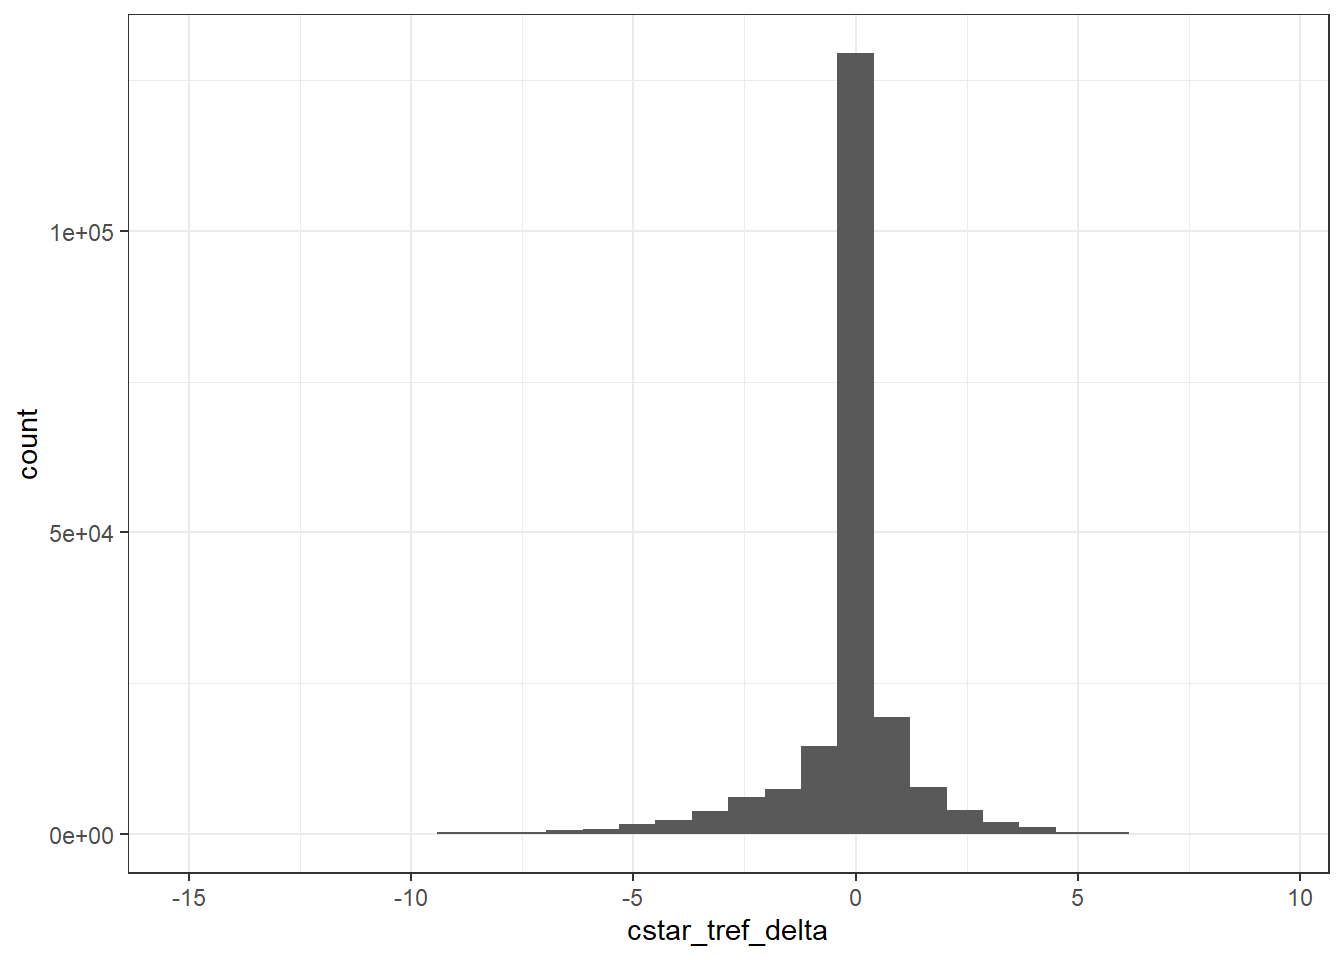
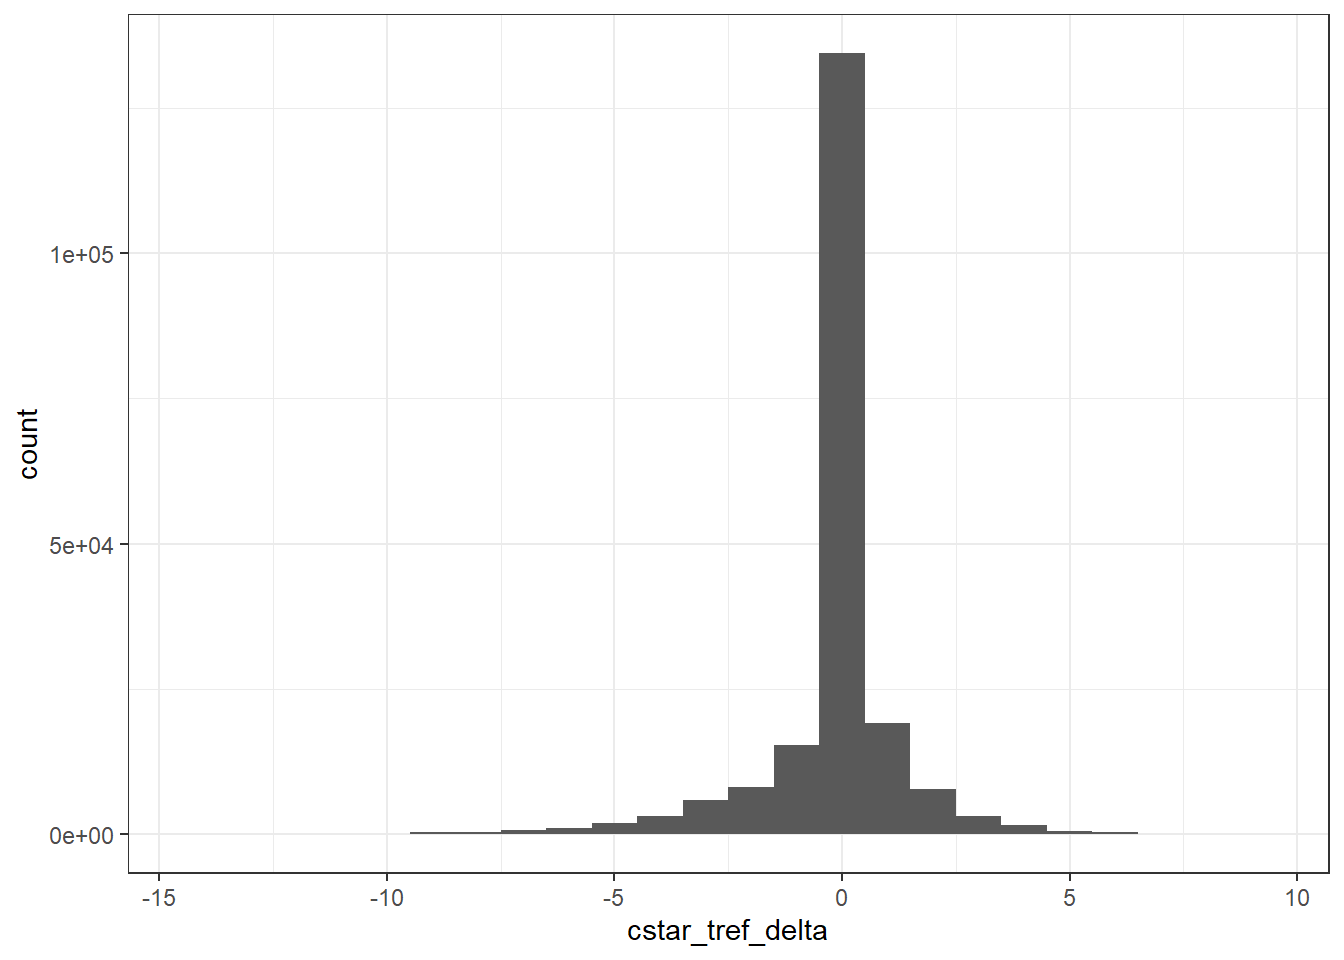
Build site.

diff --git a/docs/eMLR_data_preparation.html b/docs/eMLR_data_preparation.html
@@ -615,16 +615,16 @@ This reproducible <a href="http://rmarkdown.rstudio.com">R Markdown</a> analysis
 <div class="panel panel-default">
 <div class="panel-heading">
 <p class="panel-title">
-<a data-toggle="collapse" data-parent="#workflowr-checks" href="#strongRepositoryversionstrongahrefhttpsgithubcomjensdanielmuellerCanteMLRtreecd6669ced1a271c0147a5e5f84d884a0a0dd73fbtargetblankcd6669ca"> <span class="glyphicon glyphicon-ok text-success" aria-hidden="true"></span> <strong>Repository version:</strong> <a href="https://github.com/jens-daniel-mueller/Cant_eMLR/tree/cd6669ced1a271c0147a5e5f84d884a0a0dd73fb" target="_blank">cd6669c</a> </a>
+<a data-toggle="collapse" data-parent="#workflowr-checks" href="#strongRepositoryversionstrongahrefhttpsgithubcomjensdanielmuellerCanteMLRtreeeb8366004928a2a5e1cb3357b8668fb3d3811cb2targetblankeb83660a"> <span class="glyphicon glyphicon-ok text-success" aria-hidden="true"></span> <strong>Repository version:</strong> <a href="https://github.com/jens-daniel-mueller/Cant_eMLR/tree/eb8366004928a2a5e1cb3357b8668fb3d3811cb2" target="_blank">eb83660</a> </a>
 </p>
 </div>
[2 lines of base64/hex data omitted]
 <div class="panel-body">
 <p>
 Great! You are using Git for version control. Tracking code development and connecting the code version to the results is critical for reproducibility.
 </p>
 <p>
-The results in this page were generated with repository version <a href="https://github.com/jens-daniel-mueller/Cant_eMLR/tree/cd6669ced1a271c0147a5e5f84d884a0a0dd73fb" target="_blank">cd6669c</a>. See the <em>Past versions</em> tab to see a history of the changes made to the R Markdown and HTML files.
+The results in this page were generated with repository version <a href="https://github.com/jens-daniel-mueller/Cant_eMLR/tree/eb8366004928a2a5e1cb3357b8668fb3d3811cb2" target="_blank">eb83660</a>. See the <em>Past versions</em> tab to see a history of the changes made to the R Markdown and HTML files.
 </p>
 <p>
 Note that you need to be careful to ensure that all relevant files for the analysis have been committed to Git prior to generating the results (you can use <code>wflow_publish</code> or <code>wflow_git_commit</code>). workflowr only checks the R Markdown file, but you know if there are other scripts or data files that it depends on. Below is the status of the Git repository when the results were generated:
@@ -634,9 +634,6 @@ Ignored files:
     Ignored:    .Rproj.user/
     Ignored:    data/
     Ignored:    dump/
-
-Unstaged changes:
-    Modified:   README.md
 
 </code></pre>
 <p>
@@ -675,6 +672,40 @@ Message
 </tr>
 </thead>
 <tbody>
+<tr>
+<td>
+Rmd
+</td>
+<td>
+<a href="https://github.com/jens-daniel-mueller/Cant_eMLR/blob/eb8366004928a2a5e1cb3357b8668fb3d3811cb2/analysis/eMLR_data_preparation.Rmd" target="_blank">eb83660</a>
+</td>
+<td>
+jens-daniel-mueller
+</td>
+<td>
+2020-11-27
+</td>
+<td>
+change binwidth of control plots
+</td>
+</tr>
+<tr>
+<td>
+html
+</td>
+<td>
+<a href="https://rawcdn.githack.com/jens-daniel-mueller/Cant_eMLR/bc24e64afc9d73f11e33e5dee96e725533aba834/docs/eMLR_data_preparation.html" target="_blank">bc24e64</a>
+</td>
+<td>
+jens-daniel-mueller
+</td>
+<td>
+2020-11-27
+</td>
+<td>
+Build site.
+</td>
+</tr>
 <tr>
 <td>
 Rmd
@@ -1886,7 +1917,7 @@ GLODAP &lt;- GLODAP %&gt;%
 <h3><span class="header-section-number">5.3.1</span> Histogram</h3>
 <pre class="r"><code>GLODAP %&gt;% 
   ggplot(aes(cstar_tref_delta)) +
-  geom_histogram()</code></pre>
+  geom_histogram(binwidth = 1)</code></pre>
 <p><img src="figure/eMLR_data_preparation.Rmd/cstar_reference_year_adjustment_histogram-1.png" width="672" style="display: block; margin: auto;" /></p>
 </div>
 <div id="time-series" class="section level3">
@@ -1900,7 +1931,7 @@ GLODAP &lt;- GLODAP %&gt;%
 <p><img src="figure/eMLR_data_preparation.Rmd/cstar_reference_year_adjustment_vs_time_cant-1.png" width="672" style="display: block; margin: auto;" /></p>
 <pre class="r"><code>GLODAP %&gt;% 
   ggplot(aes(year, cstar_tref_delta)) +
-  geom_bin2d() +
+  geom_bin2d(binwidth = 1) +
   scale_fill_viridis_c()</code></pre>
 <p><img src="figure/eMLR_data_preparation.Rmd/cstar_reference_year_adjustment_vs_time_count-1.png" width="672" style="display: block; margin: auto;" /></p>
 </div>
